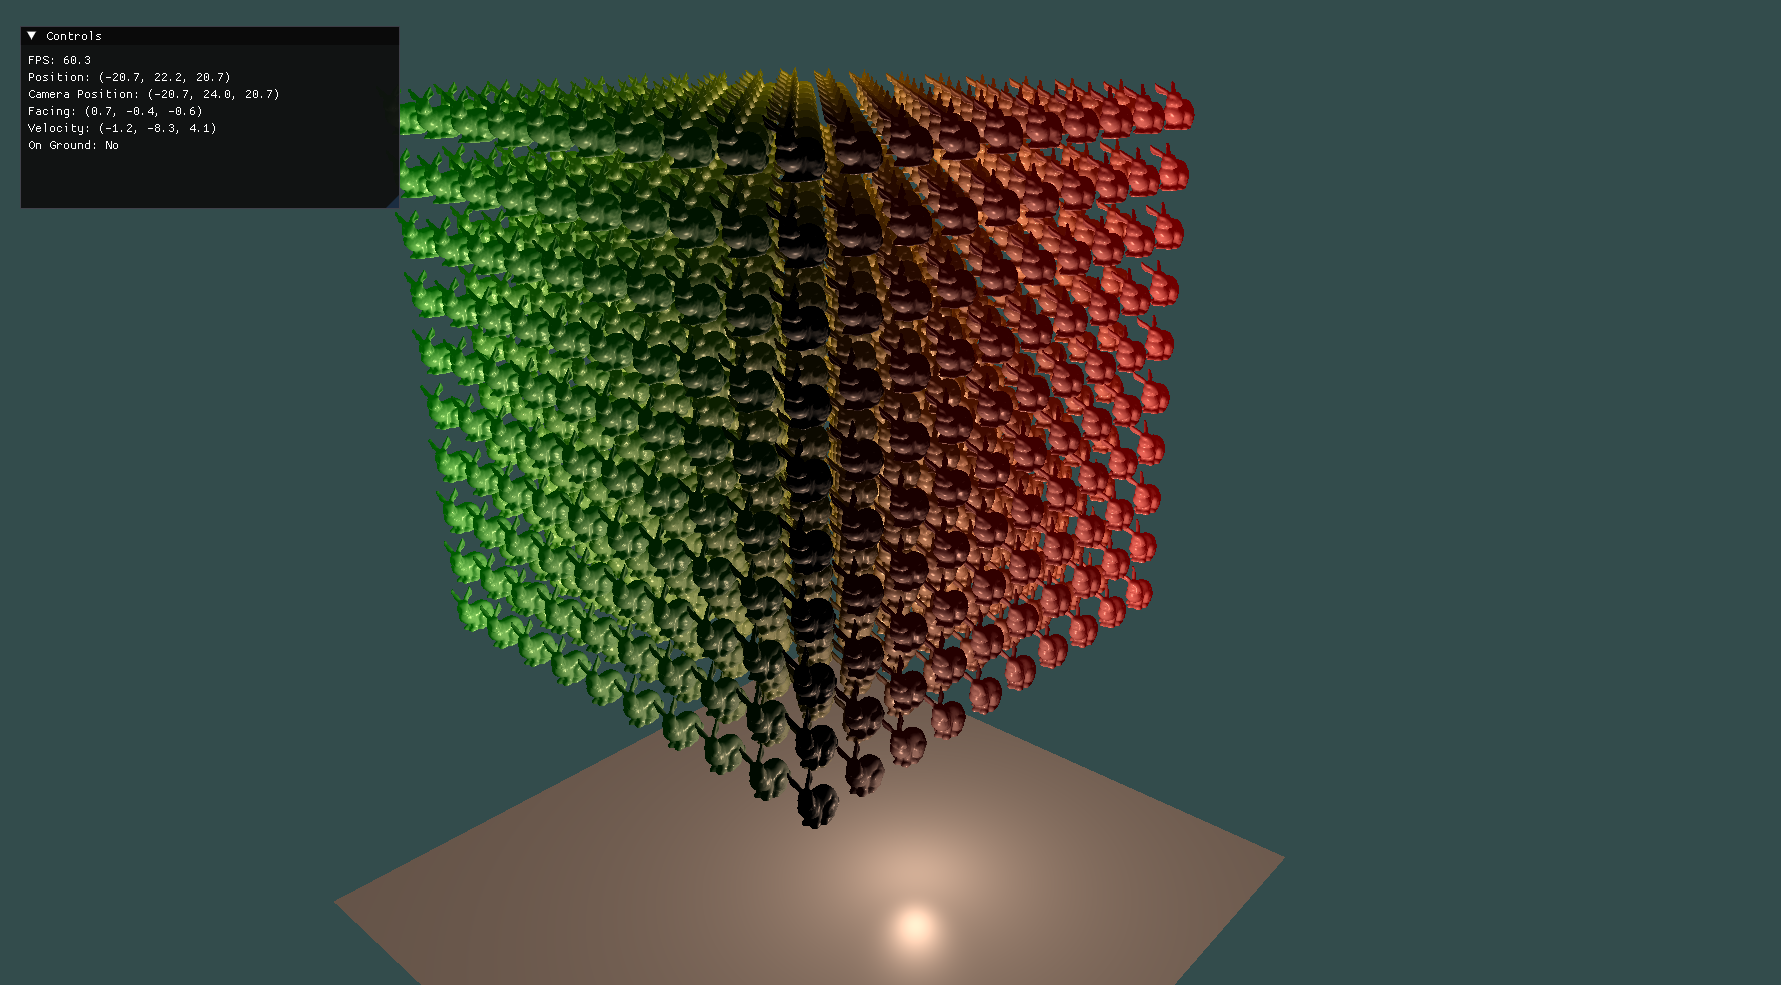
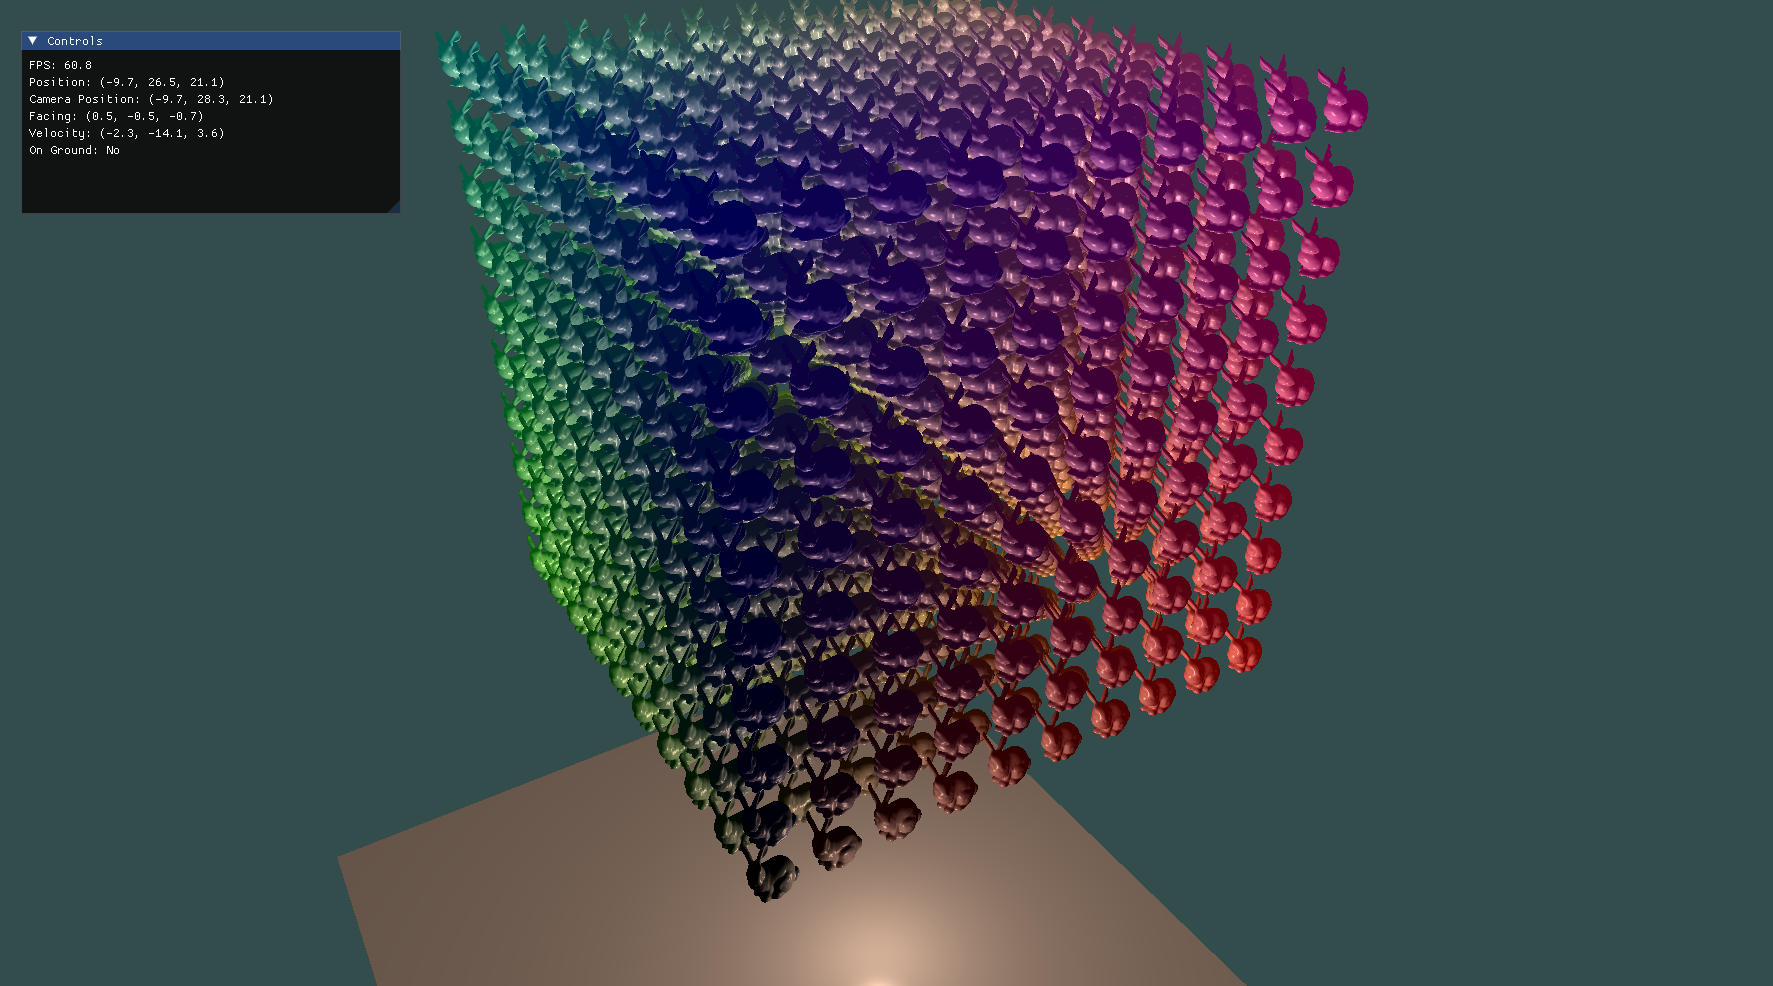
clr

diff --git a/core/src/main.cpp b/core/src/main.cpp
@@ -38,7 +38,7 @@ int main() {
             for (int k = 0; k < 10; k++) {
                 glm::vec3 pos   = glm::vec3(2.0f * i, 2.0f * k + 2, -2.0f * j); 
                 glm::vec3 scale = glm::vec3(1.0f, 1.0f, 1.0f);
-                glm::vec3 color = glm::vec3(0.1f * i, 0.1f * j, 0.0f);
+                glm::vec3 color = glm::vec3(0.1f * i, 0.1f * j, 0.1f * k);
                 Entity e(&sphere, pos, scale, color);
                 scene.include(e);
             }
